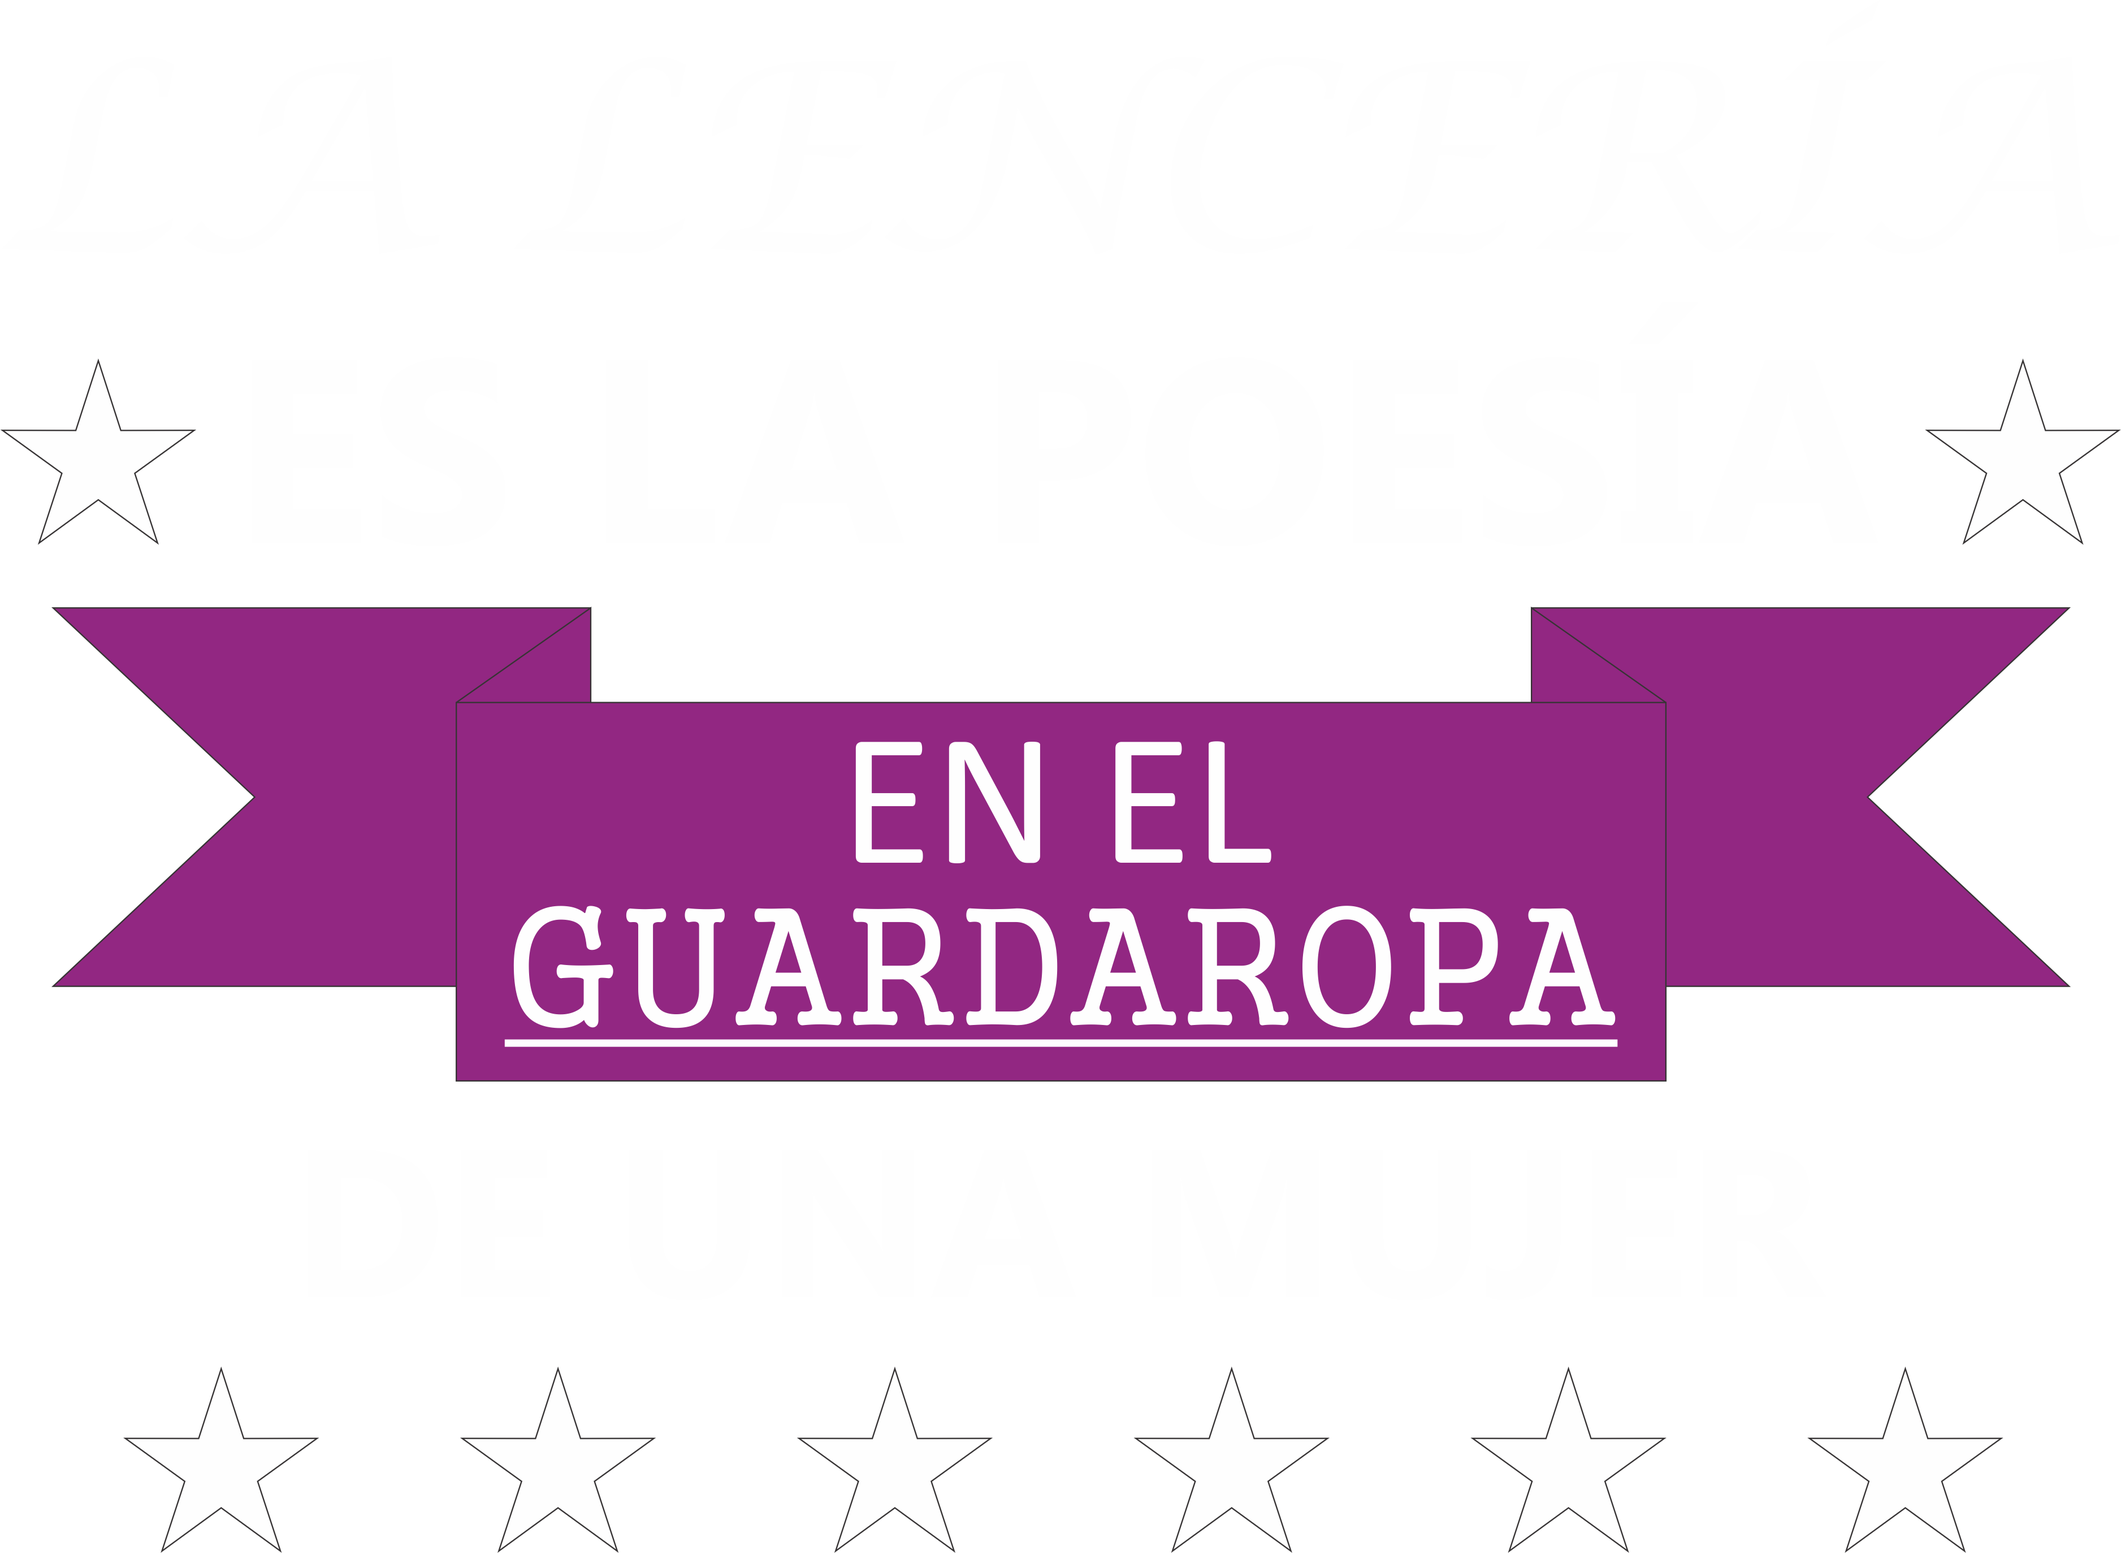
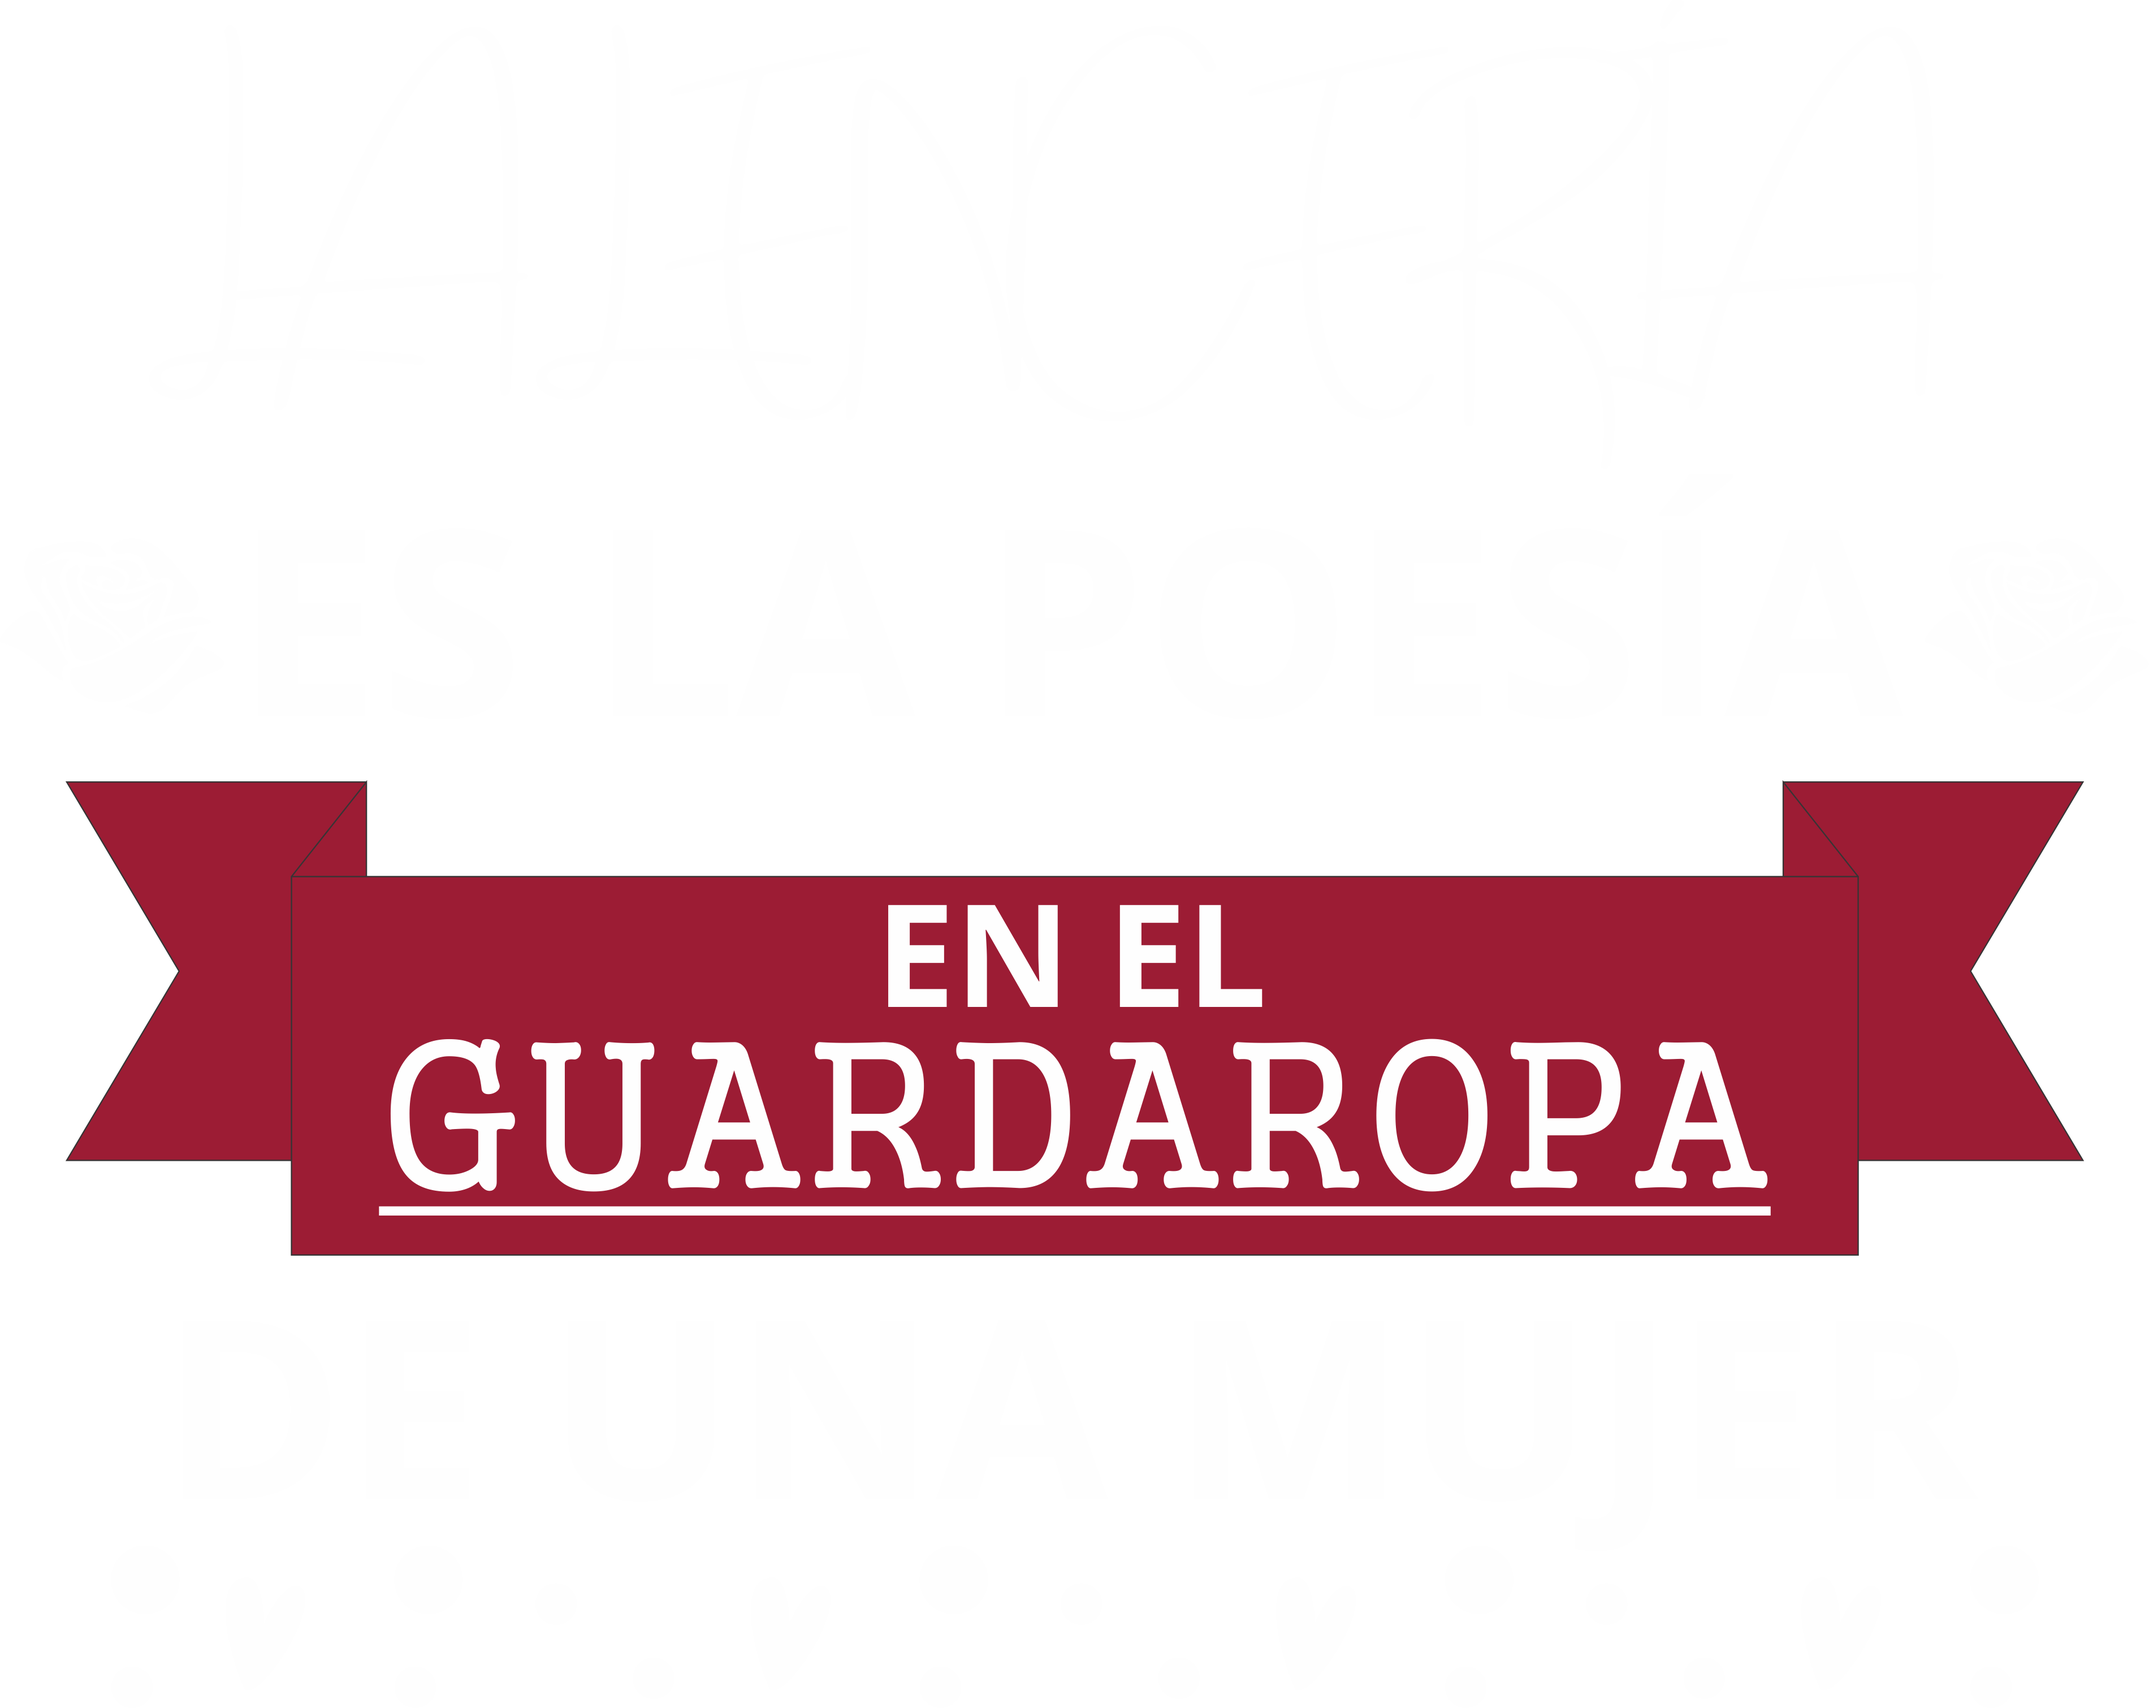
Cambios en el diseño completo de la pagina a solicitud del cliente

Changed region(s): [[0.0312, 0.3713, 0.9667, 0.7426]]

diff --git a/Media/css/estilos.css b/Media/css/estilos.css
@@ -14,7 +14,7 @@ figure {
 }
 
 header {
-    background-color: #922782;
+    background-color: #9C1C34;
     width: 100%;
     height: auto;
 }
@@ -30,14 +30,14 @@ figure .tanga {
 .hero {
     width: 100%;
     height: auto;
-    background: rgba(194,0,94,1);
-    background: -moz-linear-gradient(left, rgba(194,0,94,1) 0%, rgba(238,226,228,0.93) 100%);
-    background: -webkit-gradient(left top, right top, color-stop(0%, rgba(194,0,94,1)), color-stop(100%, rgba(238,226,228,0.93)));
-    background: -webkit-linear-gradient(left, rgba(194,0,94,1) 0%, rgba(238,226,228,0.93) 100%);
-    background: -o-linear-gradient(left, rgba(194,0,94,1) 0%, rgba(238,226,228,0.93) 100%);
-    background: -ms-linear-gradient(left, rgba(194,0,94,1) 0%, rgba(238,226,228,0.93) 100%);
-    background: linear-gradient(to right, rgba(194,0,94,1) 0%, rgba(238,226,228,0.93) 100%);
-    filter: progid:DXImageTransform.Microsoft.gradient( startColorstr='#c2005e', endColorstr='#eee2e4', GradientType=1 );
+    background: rgba(219,127,161,1);
+background: -moz-linear-gradient(left, rgba(219,127,161,1) 0%, rgba(248,226,226,1) 100%);
+background: -webkit-gradient(left top, right top, color-stop(0%, rgba(219,127,161,1)), color-stop(100%, rgba(248,226,226,1)));
+background: -webkit-linear-gradient(left, rgba(219,127,161,1) 0%, rgba(248,226,226,1) 100%);
+background: -o-linear-gradient(left, rgba(219,127,161,1) 0%, rgba(248,226,226,1) 100%);
+background: -ms-linear-gradient(left, rgba(219,127,161,1) 0%, rgba(248,226,226,1) 100%);
+background: linear-gradient(to right, rgba(219,127,161,1) 0%, rgba(248,226,226,1) 100%);
+filter: progid:DXImageTransform.Microsoft.gradient( startColorstr='#db7fa1', endColorstr='#f8e2e2', GradientType=1 );
 }
 
 .figureEspecial {
@@ -49,7 +49,7 @@ figure .leyenda {
 }
 
 figure .rosas {
-    width: 25%;
+    width: 40%;
 }
 
 .body {
@@ -71,7 +71,7 @@ figure .rosas {
 }
 
 .contenedorTexto {
-    width: 75%;
+    width: 65%;
     margin: 0 auto;
     padding: 5px;
     border: 1px solid gray;
@@ -86,7 +86,7 @@ figure .rosas {
 }
 
 .contenedorTexto p {
-    margin: 5px auto;
+    margin: 5px 20%;
 }
 
 .contenedorTexto a {
@@ -99,7 +99,7 @@ figure .rosas {
 }
 
 .quienesSomos {
-    font-family: cabin, Arial, Helvetica, sans-serif;
+    font-family: 'Open Sans', sans-serif;
 }
 
 .name {
@@ -131,13 +131,13 @@ figure .rosas {
 
 form h3 {
     color: white;
-    font-family: cabin, Arial, Helvetica, sans-serif;
+    font-family: 'Open Sans', sans-serif;
     margin: 3% 0;
 }
 
 form h4 {
     color: white;
-    font-family: cabin, Arial, Helvetica, sans-serif;
+    font-family: 'Open Sans', sans-serif;
     margin: 3% 0;
 }
 
@@ -166,12 +166,12 @@ footer {
 
 footer .container p {
     font-family: Cabin, Arial, Helvetica, sans-serif;
-    color: white;
+    color: #AAA;
     font-weight: bold;
 }
 
 footer a {
-    color: #AAA;
+    color: white;
     text-decoration: none;
 }
 

diff --git a/index.html b/index.html
@@ -6,6 +6,7 @@
     <link rel="shortcut icon" href="./Media/imagenes/rosa.ico" type="image/x-icon">
     <link rel="stylesheet" href="./Media/css/estilos.css">
     <link href="https://fonts.googleapis.com/css2?family=Anton&family=Cabin:wght@400;700&display=swap" rel="stylesheet">
+    <link href="https://fonts.googleapis.com/css2?family=Open+Sans:wght@400;700&display=swap" rel="stylesheet">
     <title>Palo de Rosa - Lencería</title>
 </head>
 <body>
@@ -21,7 +22,7 @@
         <div class="container">
             <figure class="figureEspecial">
                 <img class="leyenda" src="./Media/imagenes/leyenda.png" alt="">
-                <img class="rosas" src="./Media/imagenes/rosas.png" alt="">
+                <img class="rosas" src="./Media/imagenes/logo.png" alt=""/>
             </figure>
         </div>
     </section>
@@ -51,9 +52,9 @@
                         <p class="name">
                             ADARA
                         </p>
-                        <p class="boxtext">
+                        <!-- <p class="boxtext">
                             100% algodón o poliester, yo que se.
-                        </p>
+                        </p> -->
                         <a href="#">Fotos</a>
                     </div>
                 </article>
@@ -65,9 +66,9 @@
                         <p class="name">
                             DEMI
                         </p>
-                        <p class="boxtext">
+                        <!-- <p class="boxtext">
                             100% algodón o poliester, yo que se.
-                        </p>
+                        </p> -->
                         <a href="#">Fotos</a>
                     </div>
                 </article>
@@ -79,9 +80,9 @@
                         <p class="name">
                             CLOE
                         </p>
-                        <p class="boxtext">
+                        <!-- <p class="boxtext">
                             100% algodón o poliester, yo que se.
-                        </p>
+                        </p> -->
                         <a href="#">Fotos</a>
                     </div>
                 </article>
